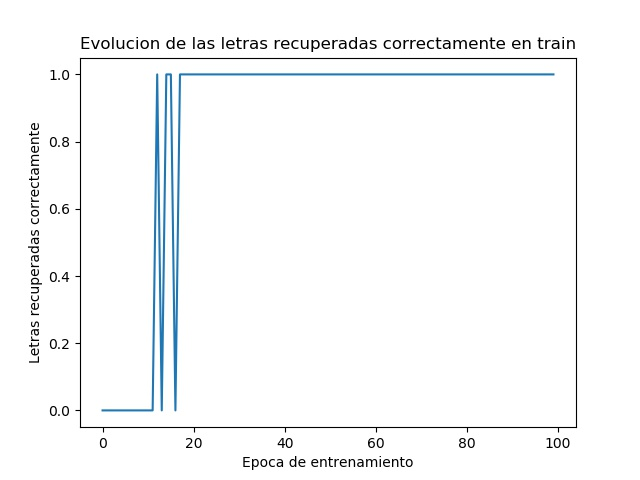
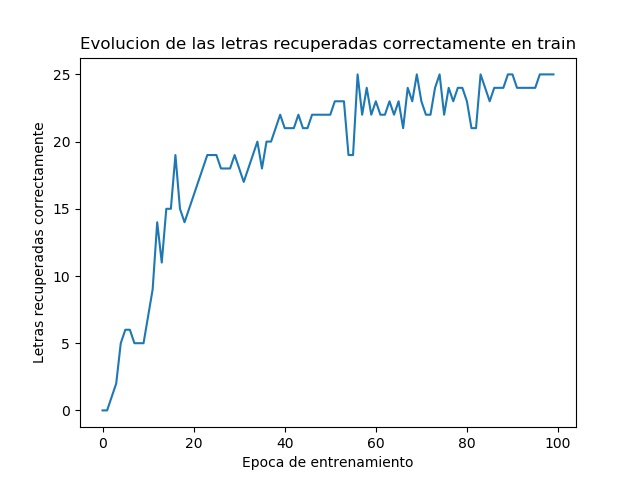
metricas corregidas y primeras graficas

diff --git a/P3/src/per_multicapa.py b/P3/src/per_multicapa.py
@@ -44,6 +44,8 @@ class PerceptronMulticapa(RedNeuronal):
         #np.place(X_train, X_train==0, -1)
         #np.place(y_train, y_train==0, -1)
         while contador < self.max_epocas: #condicion de parada
+            pe=0
+            lrc=0
             for dato in range(X_train.shape[0]):
                 # Propagacion
                 matriz=[]
@@ -65,14 +67,19 @@ class PerceptronMulticapa(RedNeuronal):
                 for i in range(len(matriz)):
                     self.capas[i].weights+=matriz[i]
 
-            contador+=1
+                pe+=self.pixeles_errados(y_train[dato], y)
+                lrc+=self.letras_recuperadas_correctamente(y_train[dato], y)
 
 
             if self.plot:
                 #Para mostrar la grafica de la evolucion de las metricas pedidas en train
-                self.errores.append(self.pixeles_errados(y_train, y))
-                self.media_errores.append(self.pixeles_errados(y_train, y)/y_train.shape[0])
-                self.lrc.append(self.letras_recuperadas_correctamente(y_train, y))
+                self.errores.append(pe)
+                self.media_errores.append(pe/y_train.shape[0])
+                self.lrc.append(lrc)
+
+
+            contador+=1
+
 
             if self.tol != 0:
                 # Se especifica una tolerancia, calculamos el ecm sobre train

diff --git a/P3/src/redNeuronal.py b/P3/src/redNeuronal.py
@@ -99,19 +99,17 @@ class RedNeuronal():
     def pixeles_errados(self, y_test, prediction):
         err=0
         #Y_test llega en bipolar prediction en numeros decimales (sin pasar la f de act)
-        for i in range(y_test.shape[0]):
-            for j in range(y_test.shape[1]):
-                if y_test[i,j]<0 and prediction[j]>=0:
-                    err+=1
-                elif y_test[i,j]>=0 and prediction[j]<0 :
-                    err+=1
+        for j in range(len(prediction)):
+            if y_test[j]<0 and prediction[j]>=0:
+                err+=1
+            elif y_test[j]>=0 and prediction[j]<0 :
+                err+=1
 
         return err
 
     def letras_recuperadas_correctamente(self, y_test, prediction):
-        lrc=0
+        lrc = 0
         prediction_bip= np.array([1 if x >= 0 else -1 for x in prediction])
-        for i in range(y_test.shape[0]):
-            if np.array_equal(prediction_bip, y_test[i]):
-                lrc+=1
+        if np.array_equal(prediction_bip, y_test):
+            lrc=1
         return lrc

diff --git a/P3/src/Autoencoder.py b/P3/src/Autoencoder.py
@@ -38,3 +38,4 @@ prediction = red.predict(datos.X_test)
 np.place(prediction, prediction >= 0, 1)
 np.place(prediction, prediction < 0, 0)
 print(prediction[0])
+print(prediction[1])
